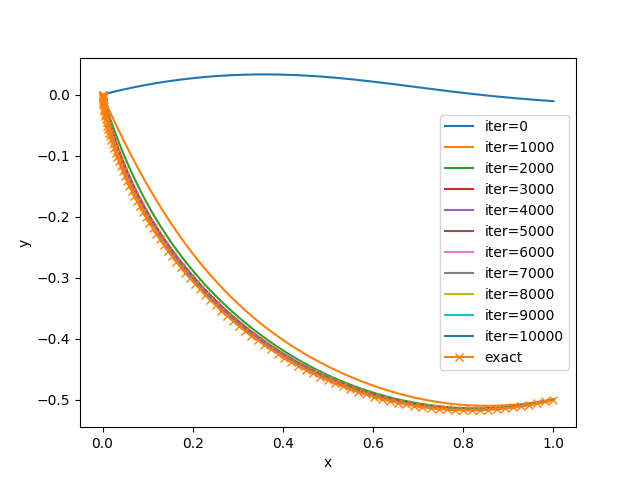
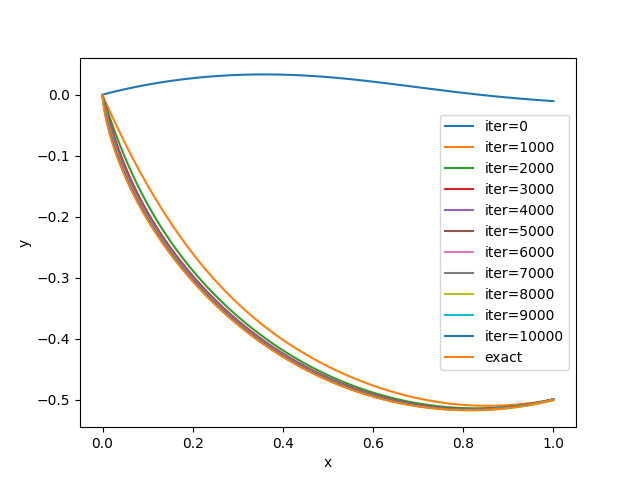
Finished Supervised training

diff --git a/Unsupervised Learning - ODE/train.py b/Unsupervised Learning - ODE/train.py
@@ -115,7 +115,7 @@ class PlotReceiver(sc.Receiver):
                 #     plt.plot(self.xx, yy, label=f"iter={step}")
                 # if step == 1000:
                 #     plt.plot(self.xx[::100], yy[::100], "-o")
-            theta = np.linspace(0, 3.50837,100)
+            theta = np.linspace(0, 3.50837,1001, endpoint = True)
             plt.plot(0.2586 * (theta - np.sin(theta)), -0.2586 * (1 - np.cos(theta)), "-x", label = "exact")
             plt.legend()
             plt.xlabel("x")
